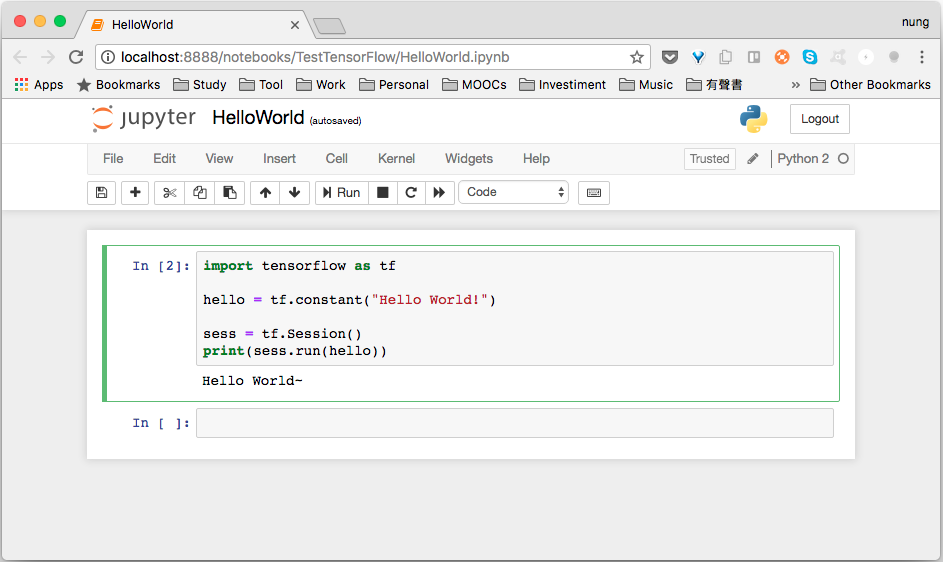
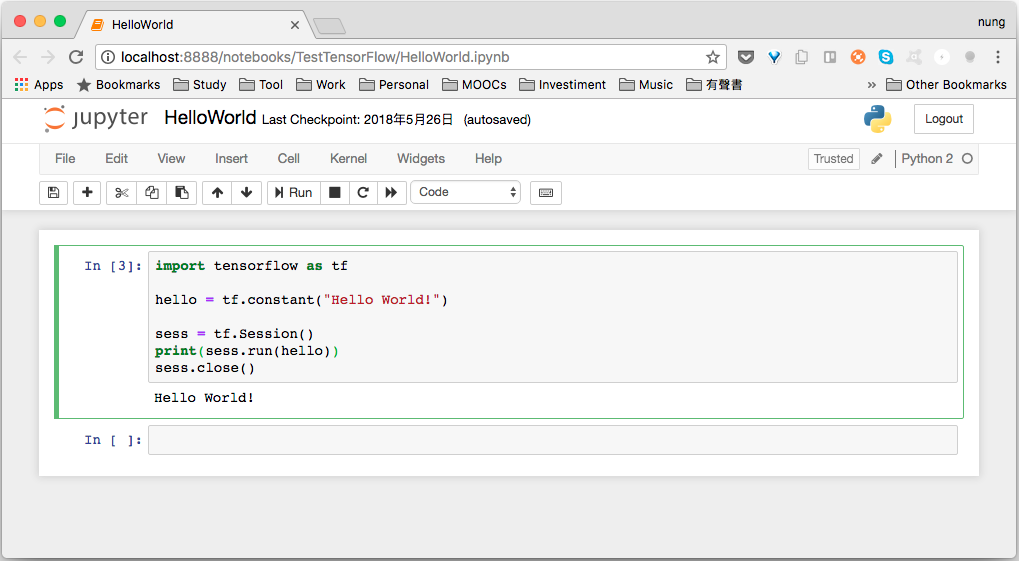
Update Post: TensorFlow - Getting started

diff --git a/source/_posts/TensorFlow-Getting-started.md b/source/_posts/TensorFlow-Getting-started.md
@@ -42,11 +42,21 @@ sess = tf.Session()
 
 <br/>
  
-最後將要運行的部分送至 Session 中運行即可。  
+將要運行的部分送至 Session 中運行。  
 
 ```python
 ...
 print(sess.run(hello))
+```
+
+<br/>
+
+
+最後記得要將 Session 關閉。  
+
+```python
+...
+sess.close()
 ```
 
 <br/>
@@ -61,6 +71,7 @@ hello = tf.constant("Hello World!")
 
 sess = tf.Session()
 print(sess.run(hello))
+sess.close()
 ```
 
 <br/>
@@ -69,4 +80,22 @@ print(sess.run(hello))
 運行結果如下：    
 
 {% asset_img 1.png %}
+
+<br/>
+
+
+也可以搭配使用 with as 寫法，這樣就不需要明確的調用 session.close()。  
+
+```python
+import tensorflow as tf
+
+hello = tf.constant("Hello World!")
+
+with tf.Session() as sess:
+    print(sess.run(hello))
+```
+
+{% asset_img 2.png %}
+
+<br/>
 
